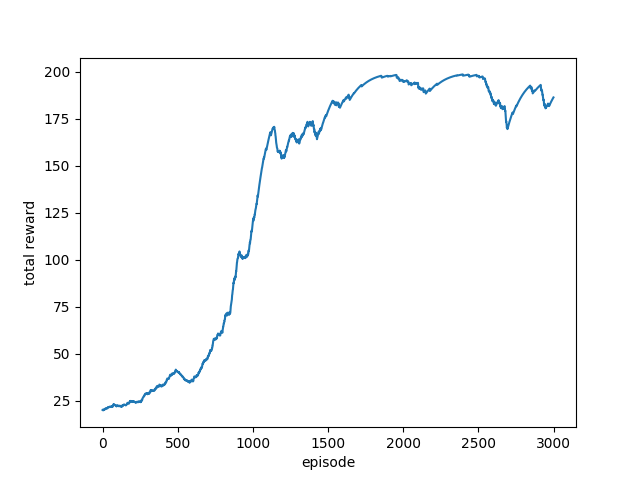
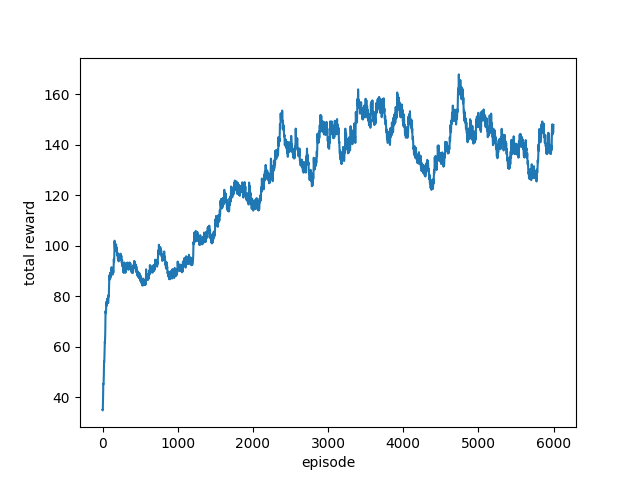
REINFORCE working

diff --git a/algorithms.py b/algorithms.py
@@ -13,7 +13,6 @@ class PolicyGradients:
 		self.state_size = self.env_.env.observation_space.shape[0]
 		self.hidden1_size = 64
 		self.hidden2_size = 32
-		# self.hidden3_size = 10
 		self.moving_reward = None
 
 		self.state_placeholder = tf.placeholder(shape=[None, self.state_size], dtype=tf.float32, name='state')
@@ -28,11 +27,7 @@ class PolicyGradients:
 		self.log_likelihood = tf.log(tf.clip_by_value(self.action_probs, 0.000001, 0.999999, name='clip'), name='log_likelihood')
 
 		with tf.name_scope("loss_fn"):
-			self.loss = tf.reduce_mean(tf.multiply(self.returns_placeholder, tf.reduce_sum(tf.multiply(self.log_likelihood, self.actions_placeholder), axis=1))) #removing the minus works!! why??
-
-		# with tf.name_scope('loss'):
-		# 	self.neg_log_prob = tf.nn.softmax_cross_entropy_with_logits(logits=self.action_logits, labels=self.actions_placeholder)
-		# 	self.loss = tf.reduce_mean(self.neg_log_prob * self.returns_placeholder)  # reward guided loss
+			self.loss = -tf.reduce_mean(tf.multiply(self.returns_placeholder, tf.multiply(self.log_likelihood, self.actions_placeholder)))
 
 		self.optim_step = tf.train.AdamOptimizer(learning_rate = self.learning_rate).minimize(self.loss)
 
@@ -49,7 +44,7 @@ class PolicyGradients:
 		self.writer.close()
 		self.sess.run(tf.global_variables_initializer())
 
-	def train(self, env, episodes = 10, lr = 0.01, gamma = 0.95):
+	def train(self, env, episodes = 10, lr = 0.01, gamma = 0.95, update_steps = 10):
 		self.gamma = gamma
 		self.lr = lr
 		all_moving_rewards=[]
@@ -66,7 +61,10 @@ class PolicyGradients:
 				temp['state'] = obs
 				temp['action'] = action
 				obs, reward, done, info = self.env_.step(action)
+				# if episode>1350:
+				# 	self.env_.env.render()
 				temp['reward'] = reward
+				# print(reward)
 				self.buffer_.append(temp)
 			if self.moving_reward is None:
 				self.moving_reward = float(sum(x['reward'] for x in self.buffer_))
@@ -102,7 +100,7 @@ class PolicyGradients:
 			temp_action = x['action']
 			actions[i, temp_action] = 1
 
-		__, loss_, temp_grad_ = self.sess.run([self.optim_step, self.loss, self.temp_grad], feed_dict={self.state_placeholder: states, self.returns_placeholder:returns, self.actions_placeholder:actions, self.learning_rate:lr})
+		__, loss_, temp_w = self.sess.run([self.optim_step, self.loss, self.w_hidden], feed_dict={self.state_placeholder: states, self.returns_placeholder:returns, self.actions_placeholder:actions, self.learning_rate:lr})
 
 class RandomAgent:
 	def __init__(self, env_):

diff --git a/main.py b/main.py
@@ -21,9 +21,9 @@ def test(agent, env, num_runs = 10, render=False):
 	return all_runs_rew
 
 if __name__=='__main__':
-	# env_ = Environment(env_name="LunarLander-v2", render = False)
-	env_ = Environment(env_name="CartPole-v0", render = False)
+	env_ = Environment(env_name="LunarLander-v2", render = False)
+	# env_ = Environment(env_name="CartPole-v1", render = False)
 	agent = PolicyGradients(env_)
-	agent.train(env_, episodes=3000, lr=0.001)
+	agent.train(env_, episodes=6000, lr=0.001, gamma=0.95)
 	print('Training done')
 	test(agent, env_)
